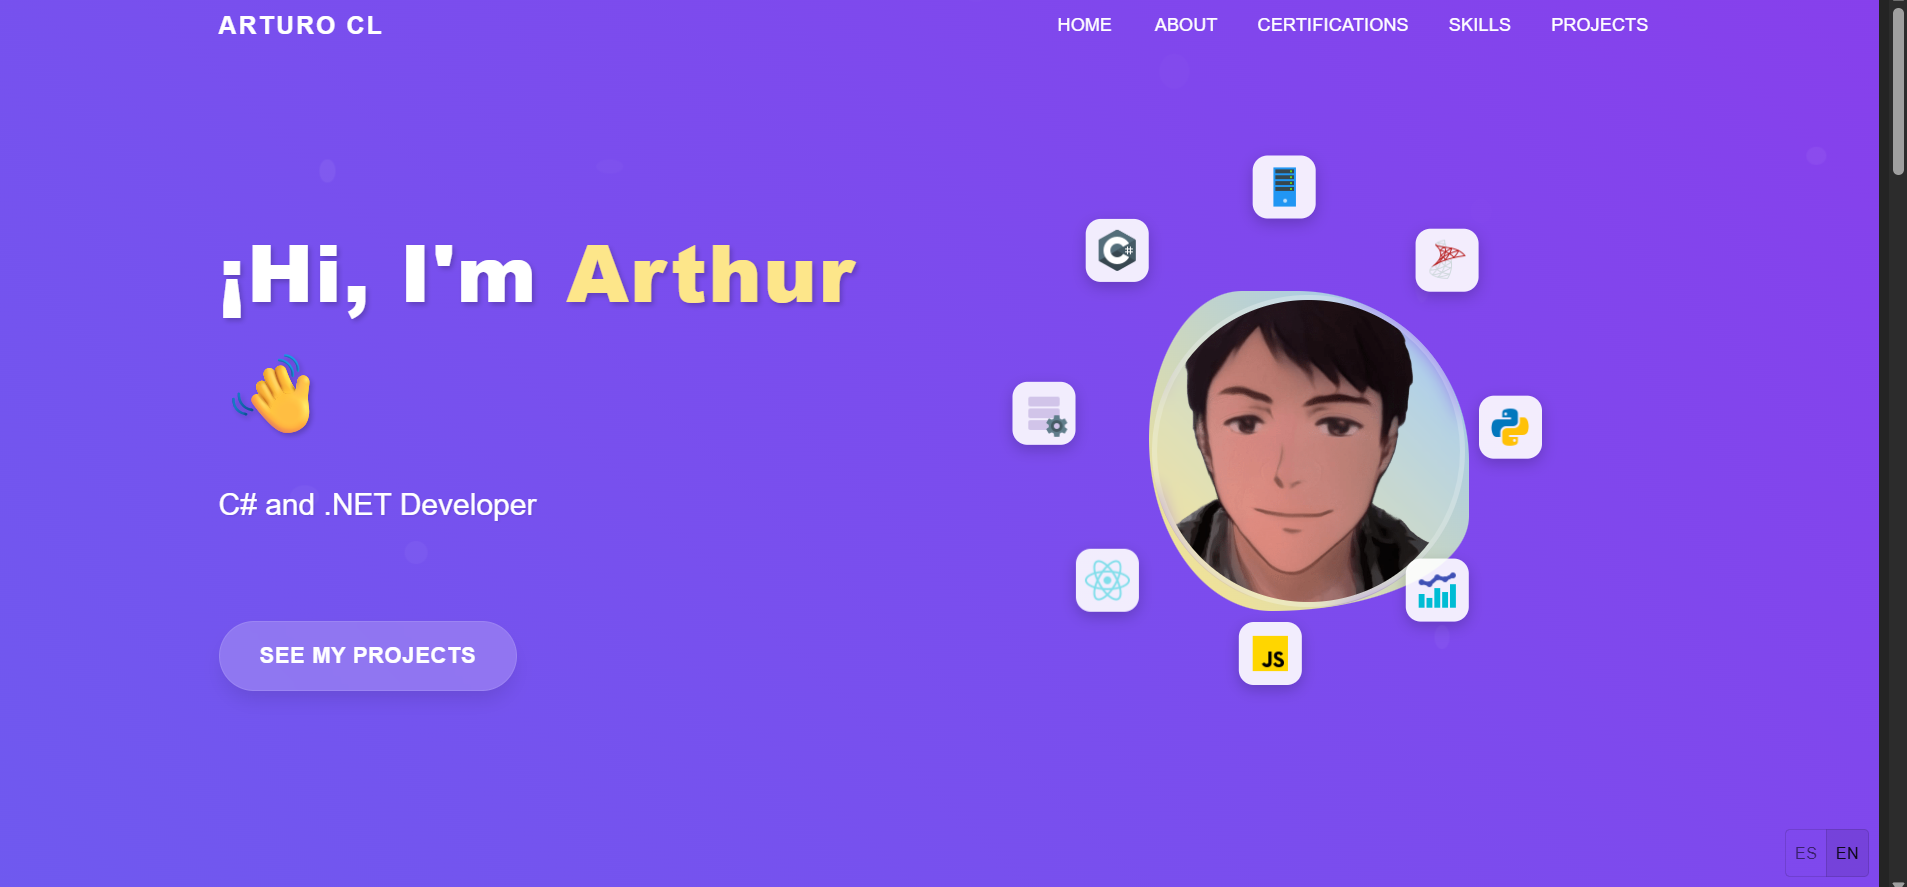
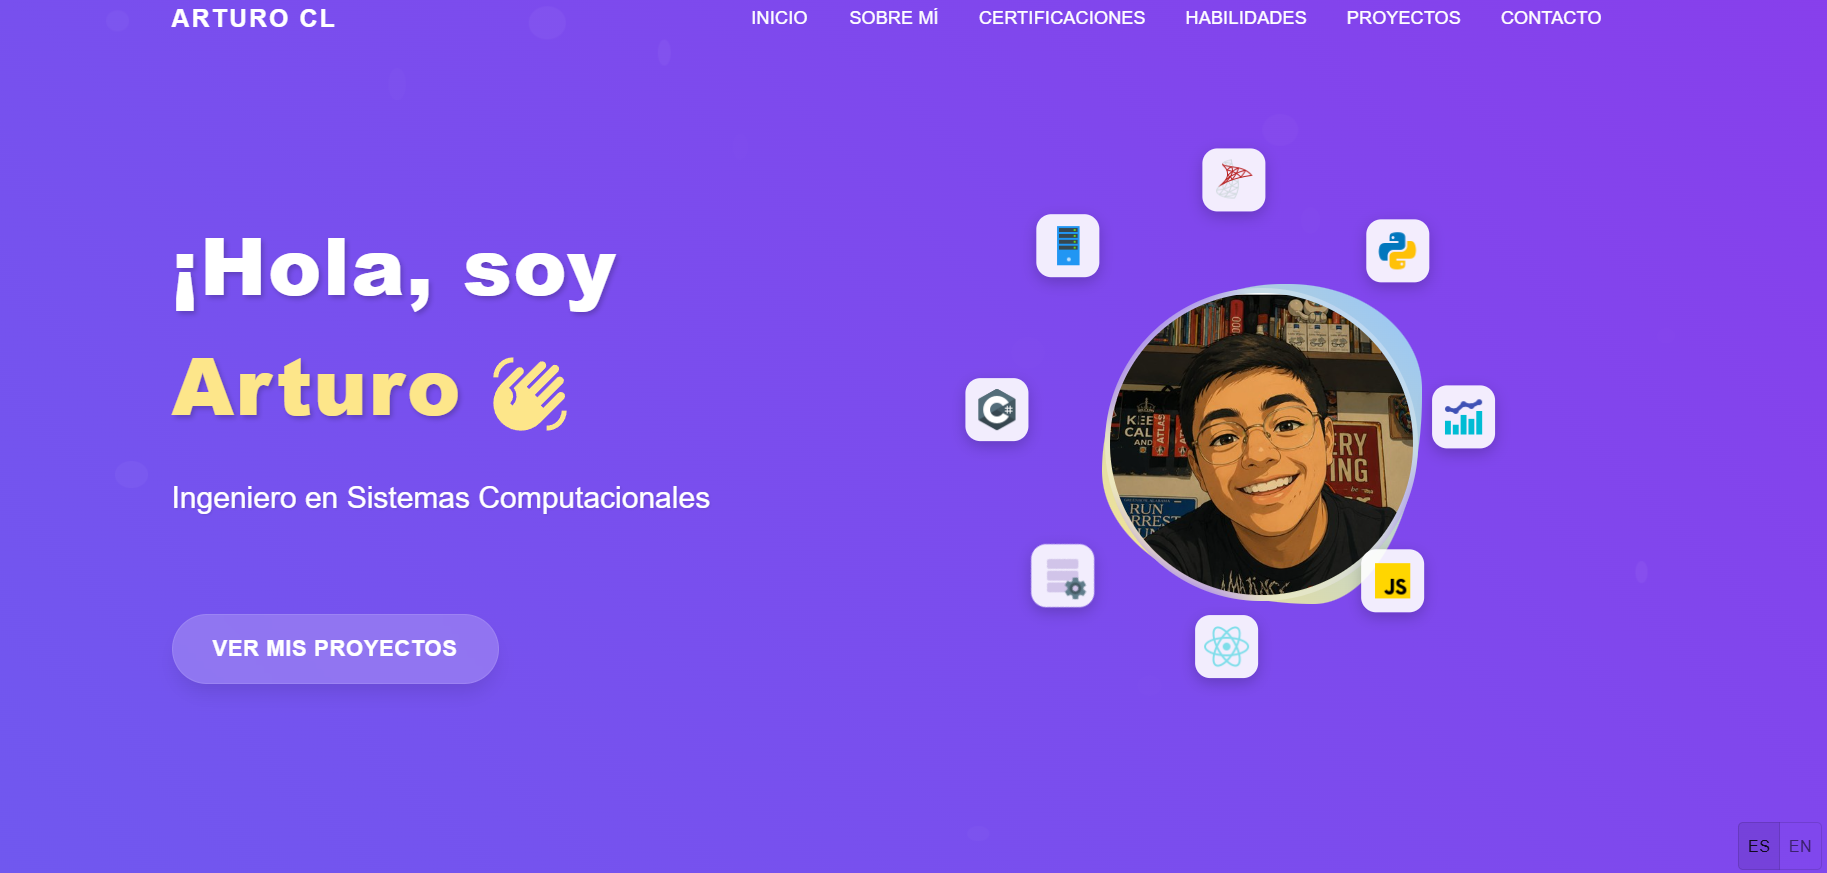
Update Animated Photo and Job Description

diff --git a/src/data/experience.js b/src/data/experience.js
@@ -10,8 +10,8 @@ work: [
       en: "Radiomóvil Dipsa S.A. de C.V. (TELCEL)" 
     },
     period: { 
-      es: "Octubre 2024 - Actual", 
-      en: "October 2024 - Present" 
+      es: "Noviembre 2024 - Actual", 
+      en: "November 2024 - Present" 
     },
     description: {
       es: [
@@ -21,7 +21,8 @@ work: [
         "Administración y monitoreo de servidores Linux y Windows.",
         "Apoyo en la instalación, configuración e implementación de aplicativos internos.",
         "Gestión de accesos y permisos en bases de datos y servidores.",
-        "Colaboración en proyectos de migración y modernización de portales web e infraestructura asociada."
+        "Colaboración en proyectos de migración y modernización de portales web e infraestructura asociada.",
+        "Participación en la implementación de pipelines de despliegue en Azure DevOps e integración de repositorios Git."
       ],
       en: [
         "Develop enterprise web applications using C# and .NET for internal service management.",
@@ -30,13 +31,14 @@ work: [
         "Administer and monitor Linux and Windows servers.",
         "Assist in the installation, configuration and deployment of internal applications.",
         "Manage access permissions across databases, servers and corporate systems.",
-        "Collaborate in migration and modernization projects for internal web portals and infrastructure."
+        "Collaborate in migration and modernization projects for internal web portals and infrastructure.",
+        "Participate in the implementation of deployment pipelines in Azure DevOps and integration of Git repositories."
       ],
     },
     technologies: [
       "C#", ".NET", "SQL Server", "SSIS", "SSRS",
       "JavaScript", "Bootstrap",
-      "Windows Server", "Linux", "LDAP"
+      "Windows Server", "Linux", "LDAP","Git", "Azure DevOps"
     ]
   }
 ],

diff --git a/src/data/about.js b/src/data/about.js
@@ -4,8 +4,8 @@ const pick = (obj, lang) => (obj && typeof obj === 'object' ? obj[lang] ?? obj.e
 export const aboutInfo = {
   name: "Arturo Cortés Lugo",
   description: {
-    es: "Ingeniero de Software con experiencia en el desarrollo de aplicaciones empresariales utilizando C#, .NET y SQL Server, enfocado en automatización de procesos y sistemas de monitoreo. Me interesa continuar desarrollando soluciones eficientes mientras sigo explorando tecnologías como desarrollo web moderno, cloud computing, IoT y ciberseguridad.",
-    en: "Software Engineer with experience developing enterprise applications using C#, .NET and SQL Server, focused on process automation and monitoring systems. I am interested in building efficient solutions while continuing to explore modern web development, cloud computing, IoT and cybersecurity.",
+    es: "Profesionista con experiencia en aplicaciones empresariales, automatización de procesos y administración de infraestructura. Apasionado por desarrollar soluciones eficientes mientras continúo ampliando mis conocimientos en desarrollo web, computación en la nube, IoT y ciberseguridad.",
+    en: "Professional with experience in enterprise applications, process automation and infrastructure administration. Passionate about developing efficient solutions while continuing to expand my knowledge in web development, cloud computing, IoT and cybersecurity.",
   },
   image: personalPhoto,
 };

diff --git a/src/utils/i18n.js b/src/utils/i18n.js
@@ -17,8 +17,7 @@ const resources = {
         greeting: "¡Hola, soy",
         name: "Arturo",
         phrases: [
-          "Ingeniero de Software",
-          "Desarrollador C# y .NET",
+          "Ingeniero en Sistemas Computacionales",
           "Aplicaciones Empresariales e Infraestructura",
           "Automatización y Plataformas de Datos",
         ],
@@ -56,7 +55,6 @@ const resources = {
         name: "Arthur",
         phrases: [
           "Software Engineer",
-          "C# and .NET Developer",
           "Enterprise Applications and Infrastructure",
           "Automation and Data Platforms",
         ],

diff --git a/src/pages/Home.jsx b/src/pages/Home.jsx
@@ -5,7 +5,8 @@ import { motion, AnimatePresence } from "framer-motion";
 import { useEffect, useState } from "react";
 import { skills } from "../data/skills";
 import { useTranslation } from "react-i18next";
-import animatedPhoto from '../assets/animatedPhoto.png';
+//import animatedPhoto from '../assets/animatedPhoto.png';
+import animatedPhoto from '../assets/animatedPhoto21.jpg';
 
 function Home() {
   // Hook para detectar tamaño de pantalla
